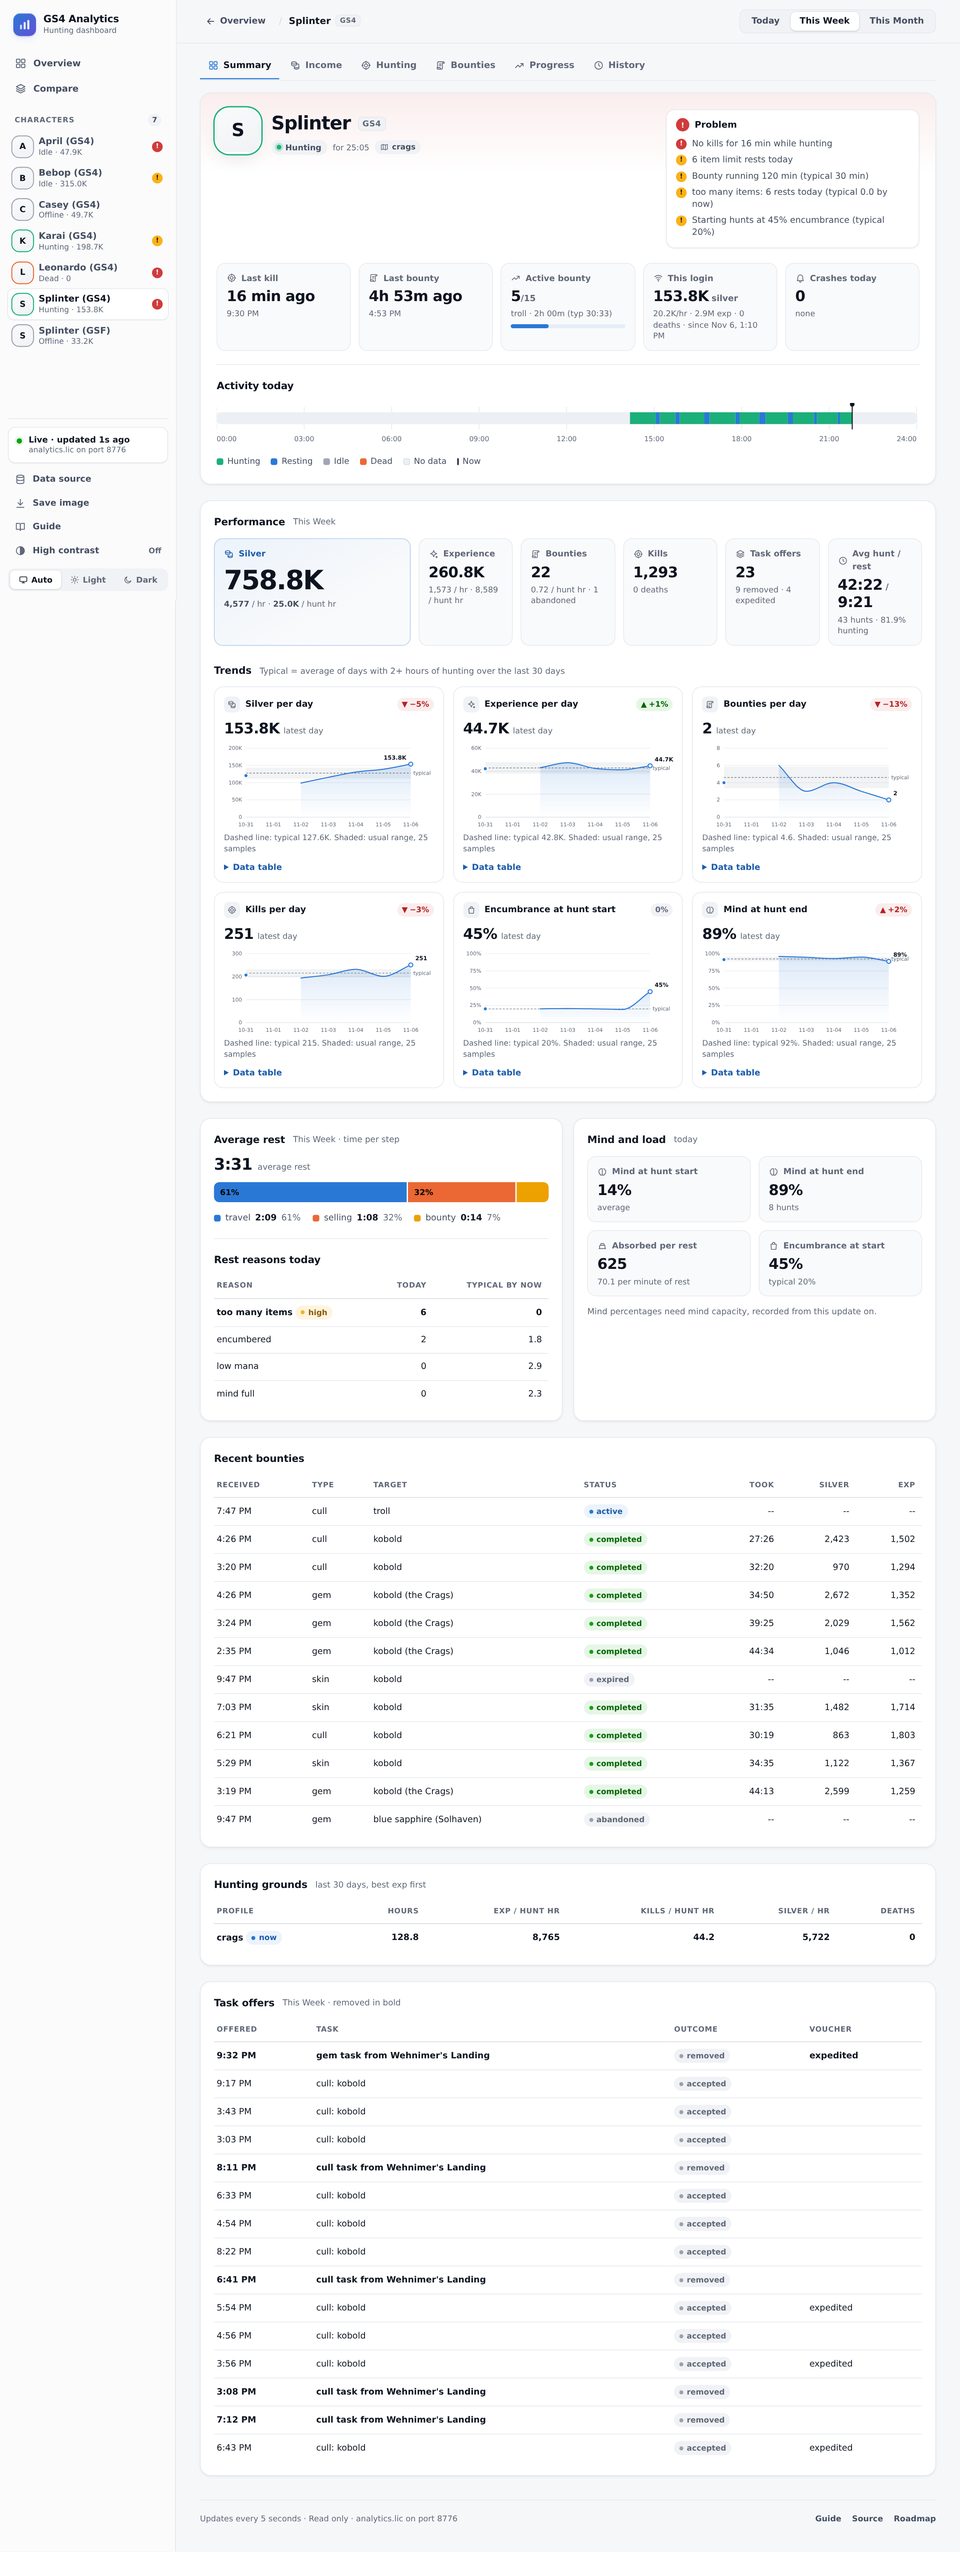
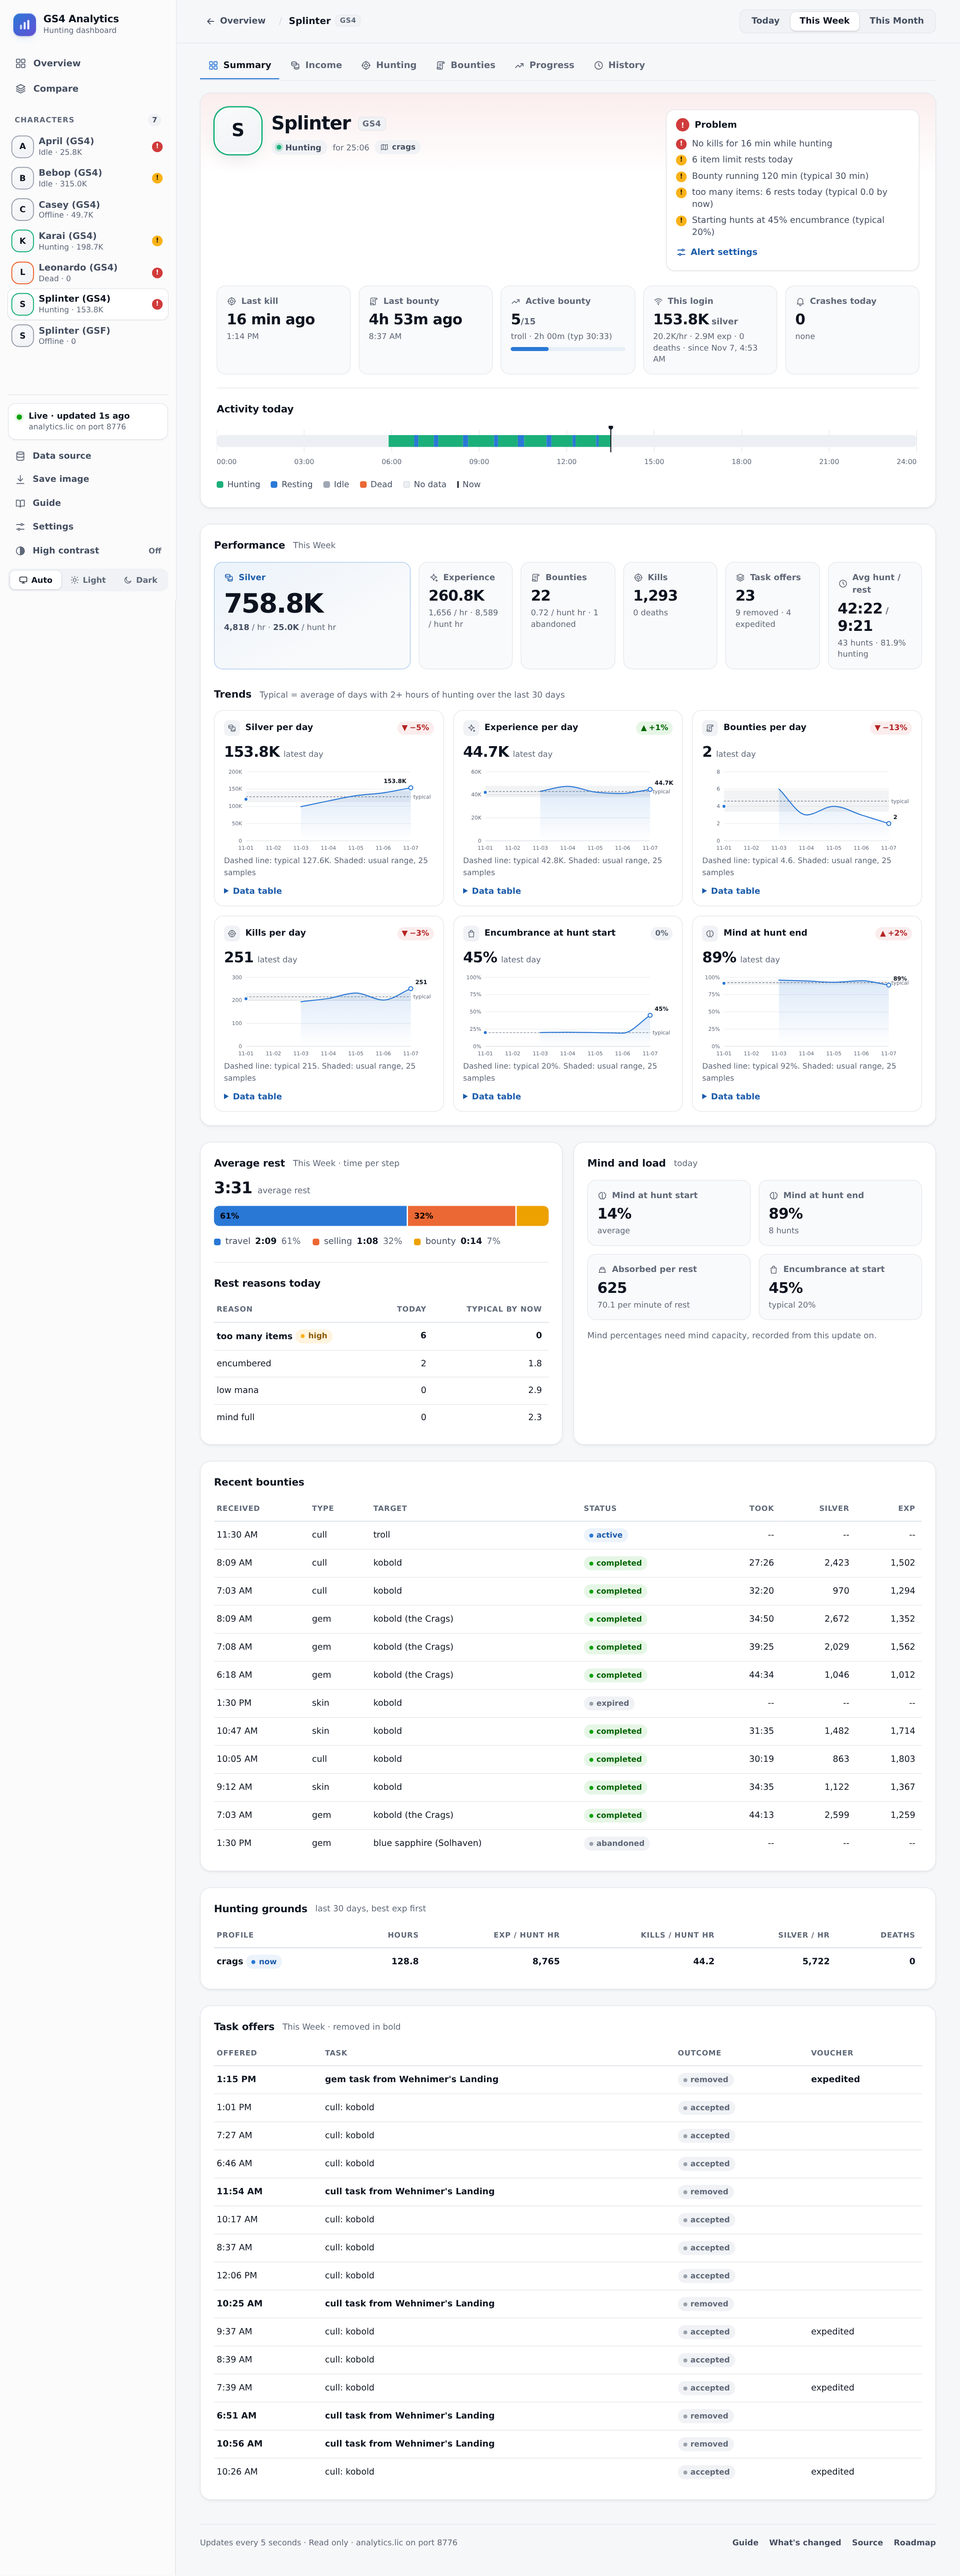
docs: retake the README screenshots, and add the Settings page
The overview, Alerts card, Settings and menu have changed since the last
set. npm run screenshots now takes the Settings page too, and the README
shows it.

diff --git a/tools/screenshots.js b/tools/screenshots.js
@@ -35,7 +35,7 @@ async function shot(name, { hash = '', scheme = 'light', width = 1440, height = 
   page.on('pageerror', (e) => problems.push(`${name}: ${e.message}`));
   page.on('console', (m) => { if (m.type() === 'error') problems.push(`${name}: ${m.text()}`); });
   await page.goto(landing ? `http://localhost:${SITE_PORT}/` : `http://localhost:${SITE_PORT}/?live=${API_PORT}${hash}`);
-  await page.waitForSelector(landing ? '#source:not([hidden]) #demoBtn' : hash === '#compare' ? '#compare table' : hash ? '.sub-nav' : '.card[data-who]', { timeout: 15_000 });
+  await page.waitForSelector(landing ? '#source:not([hidden]) #demoBtn' : hash === '#compare' ? '#compare table' : hash === '#settings' ? '#settingsPage #set-alerts' : hash ? '.sub-nav' : '.card[data-who]', { timeout: 15_000 });
   if (range) {
     const tabs = hash === '#compare' ? '#cmpTabs' : '#tabs';
     await page.click(`${tabs} button[data-r="${range}"]`);
@@ -62,6 +62,7 @@ try {
   await shot('income', { hash: '#GS4%3ASplinter/income', range: 'weekly' });
   await shot('progress', { hash: '#GS4%3ASplinter/progress', scheme: 'dark' });
   await shot('compare', { hash: '#compare', range: 'weekly' });
+  await shot('settings', { hash: '#settings' });
   await shot('phone', { width: 390, height: 844, preview: 620 });
   await shot('character-contrast', { hash: '#GS4%3ASplinter', contrast: true });
   await shot('og', { scheme: 'dark', width: 1200, height: 630, scale: 1, path: OG });

diff --git a/README.md b/README.md
@@ -72,6 +72,12 @@ fixture): seven made-up characters, served live by the mock API. Click one for t
   </tr>
   <tr>
     <td colspan="2" valign="top">
+      <a href="docs/images/settings.png"><img src="docs/images/settings-preview.png" width="100%" alt="The Settings page: whether the cards show totals or per hour, the figure beside each character in the menu, and which alerts show, grouped and explained, with their thresholds"></a>
+      <br><b>Settings</b>: totals or per hour on the cards, the menu's figure, and which alerts show and when. Kept in your browser.
+    </td>
+  </tr>
+  <tr>
+    <td colspan="2" valign="top">
       <a href="docs/images/character-contrast.png"><img src="docs/images/character-contrast-preview.png" width="100%" alt="The character page in high contrast: black text, strong borders, and the activity bars textured as well as coloured"></a>
       <br><b>High contrast</b>: on from the sidebar, or by itself when your system asks for more contrast. Works with light and dark.
     </td>
